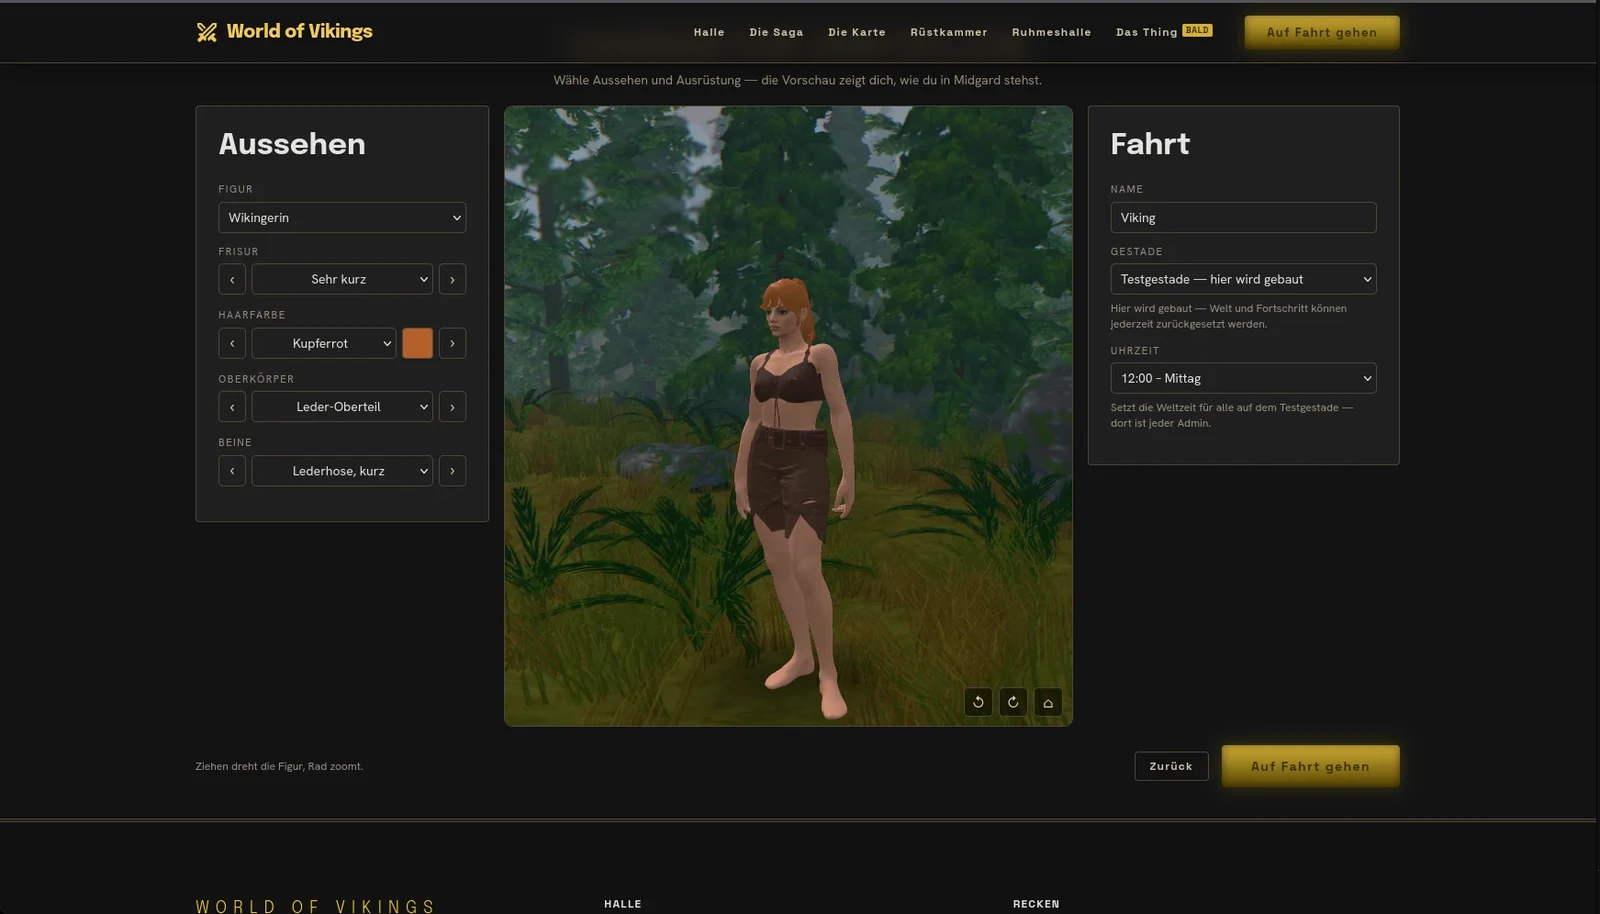
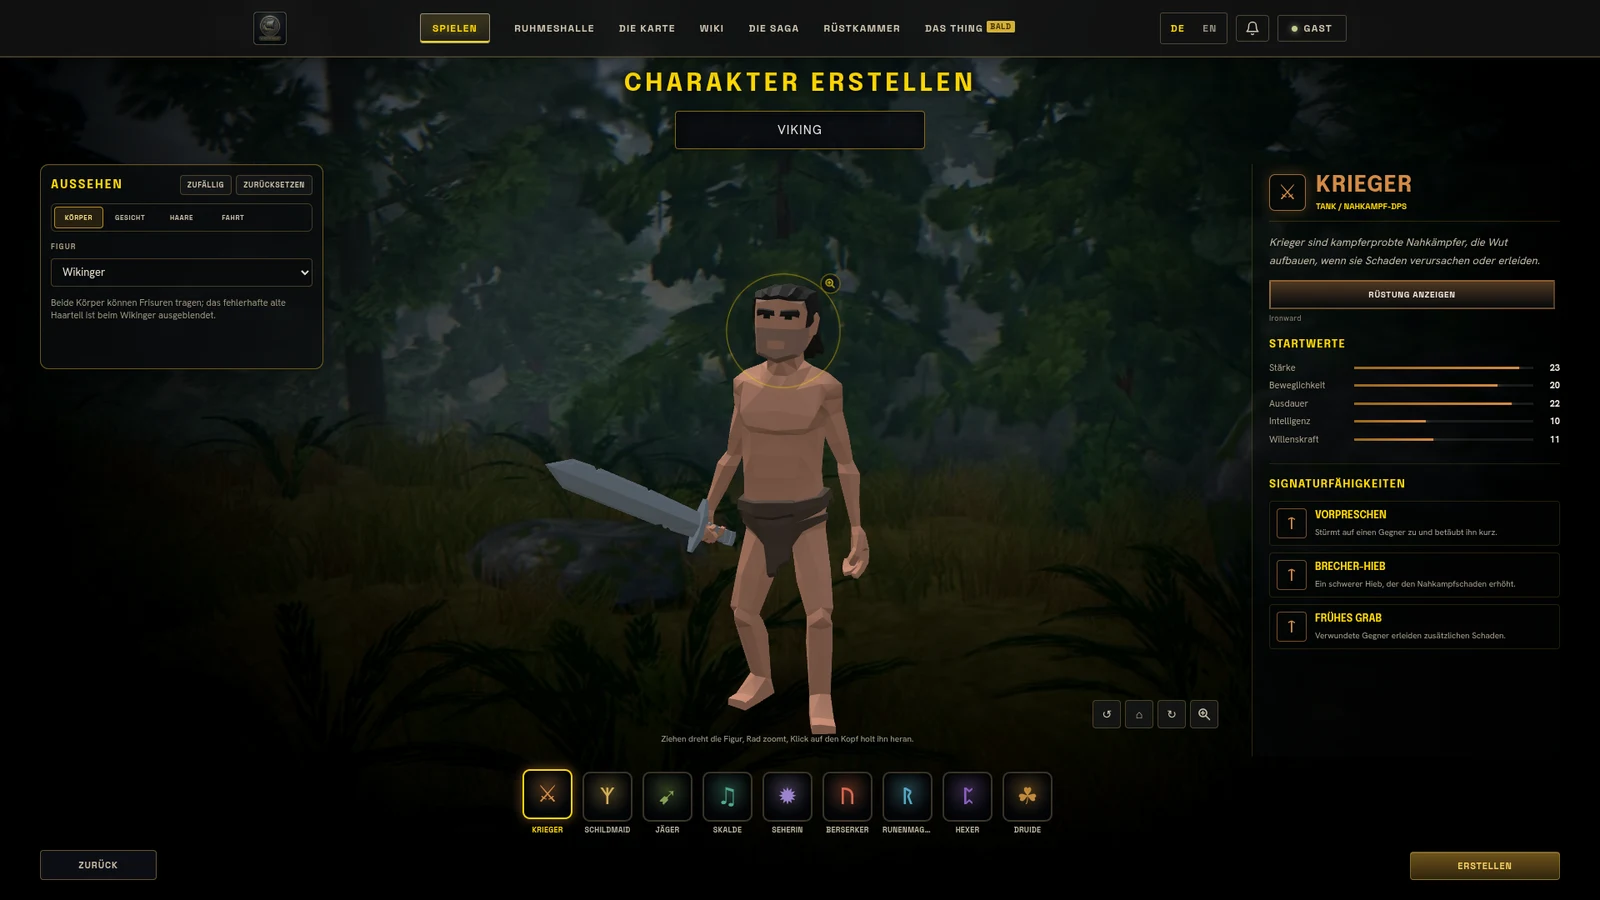
Rewrite the README in plain language and replace outdated screenshots
The README text is rewritten in natural English and German sentences:
features as a simple list, the starting island as the entry point,
clearer quick-start and admin-password notes. The outdated screenshots
are removed; for now the README shows two current images (meadow at the
forest edge, character creation on the website). More motifs follow once
good captures of the current state exist. Docs/bilder/README.md lists
the images and the capture rules.

Deutsch: Die README ist in natürlichen Sätzen auf Englisch und Deutsch
neu geschrieben: Merkmale als einfache Liste, die Startinsel als
Einstieg, klarere Hinweise zu Schnellstart und Adminpasswort. Die
veralteten Bilder sind entfernt; vorerst zeigt die README zwei aktuelle
Aufnahmen (Wiese am Waldrand, Charaktererstellung auf der Webseite).
Weitere Motive folgen, sobald es gute Aufnahmen vom aktuellen Stand
gibt. Docs/bilder/README.md nennt die Bilder und die Aufnahmeregeln.

diff --git a/README.md b/README.md
@@ -4,8 +4,8 @@
 
 # World of Vikings
 
-**Anglo-Saxons against Vikings: a multiplayer world that runs in your browser.**<br>
-**Angelsachsen gegen Wikinger: eine Mehrspielerwelt, die im Browser läuft.**
+**An online role-playing game about Anglo-Saxons and Vikings that runs in your browser.**<br>
+**Ein Online-Rollenspiel um Angelsachsen und Wikinger, das im Browser läuft.**
 
 [![CI](https://github.com/vibe-code-repo/worldofvikings/actions/workflows/ci.yml/badge.svg)](https://github.com/vibe-code-repo/worldofvikings/actions/workflows/ci.yml)
 ![TypeScript](https://img.shields.io/badge/TypeScript-strict-3178C6?logo=typescript&logoColor=white)
@@ -19,7 +19,7 @@
 [🇩🇪 Deutsch](#-deutsch) ·
 [Developer guide](docs/getting-started.md)
 
-<img src="Docs/bilder/spiel.webp" alt="A character in meadow and forest, with health and stamina bars and the hotbar" width="100%">
+<img src="Docs/bilder/wald.webp" alt="A character on a meadow at the edge of a forest" width="100%">
 
 </div>
 
@@ -27,42 +27,38 @@
 
 ## 🇬🇧 English
 
-World of Vikings is an online role-playing game that needs nothing but a browser. No
-launcher, no multi-gigabyte download: open the page, sign in, and the world streams in
-around you as you walk. Meadows, dark forest and bog, day and night, terrain you can dig
-into and dungeons that are built from a seed.
+World of Vikings is an online role-playing game that you play in your browser.
+There is nothing to install: open the page, sign in, and the world loads around
+you as you explore it. You start on a small island with a village and set out
+from there into meadows, forests and bogs. Along the way you can dig into the
+ground, change the terrain and explore dungeons.
 
-The game is in **early access**. The world is being built in the open, and this
-repository is the whole of it: game client, game server, world editor and website.
+The game is in **early access** and is developed in the open. This repository
+contains all of it: the game client, the game server, the world editor and the
+website.
 
-### What makes it different
+### Features
 
-| | |
-|---|---|
-| 🌍 **A world that is written, not rolled** | An in-game editor describes the world as regions with a biome each. Client and server compute the same terrain from it, bit for bit, and golden tests keep it that way. |
-| ⚔ **An honest server** | Movement, inventory, crafting, terraforming and loot are decided by the server. The client draws and asks; it never asserts. |
-| ⛏ **Terrain you can change** | Dig a pit, raise a mound. The ground keeps its shape and shows its cut faces. |
-| 🏰 **Dungeons from a seed** | Crypts and caves come from a generator with real doors and room chains: different every time, the same for everyone. |
-| 🎨 **Modern rendering** | Babylon.js 9 on WebGPU, with WebGL2 as the fallback. Cascaded shadows, fog, water and a full day and night cycle. |
-| 🛡 **Your own hero** | Create a character on the website with a live 3D preview, then gear up in sets of armour. |
+- **Runs in the browser.** The game is built on Babylon.js 9 and uses WebGPU,
+  with WebGL2 as a fallback for older systems. It has shadows, fog, water and a
+  day and night cycle.
+- **The server has the final say.** Movement, inventory, crafting, digging and
+  loot are all checked on the server, so a modified client cannot cheat.
+- **The same world on both sides.** The world is designed in an in-game
+  editor. Client and server generate exactly the same terrain from it, and
+  tests make sure it stays that way.
+- **Terrain you can change.** Dig pits or pile up earth. Your changes stay in
+  the world.
+- **Dungeons from a seed.** Crypts and caves are generated from a seed. Every
+  dungeon is different, but everyone who enters the same one finds the same
+  rooms.
+- **Your own character.** You create your character on the website with a live
+  3D preview and equip armour sets in the game.
 
-### Screenshots
+<img src="Docs/bilder/erstellen.webp" alt="Character creation on the website with a 3D preview" width="100%">
+<sub>Character creation on the website</sub>
 
-<table>
-  <tr>
-    <td width="50%"><img src="Docs/bilder/weltkarte.webp" alt="The live world, rendered from the world document"><br><sub><b>The world map</b>, rendered from the same data the server runs</sub></td>
-    <td width="50%"><img src="Docs/bilder/gelaende.webp" alt="A dug-out pit showing the cut faces of the terrain"><br><sub><b>Terraforming</b>: a pit dug into the hillside</sub></td>
-  </tr>
-  <tr>
-    <td width="50%"><img src="Docs/bilder/nacht.webp" alt="The same area at night"><br><sub><b>Night</b> falls over the same valley</sub></td>
-    <td width="50%"><img src="Docs/bilder/erstellen.webp" alt="Character creation on the website with a 3D preview"><br><sub><b>Character creation</b> with a live 3D preview</sub></td>
-  </tr>
-  <tr>
-    <td colspan="2"><img src="Docs/bilder/charakter.webp" alt="Character window and inventory side by side"><br><sub><b>Character and inventory</b></sub></td>
-  </tr>
-</table>
-
-### Run it yourself
+### Running it locally
 
 ```bash
 git clone https://github.com/vibe-code-repo/worldofvikings.git
@@ -71,80 +67,80 @@ npm install
 npm run dev
 ```
 
-That starts game server, client and admin service together. Then open
-**http://localhost:5274/play/** and sign in as `guest` / `guest`. No credentials, no
-Docker. Models and textures are not part of the repository; without them the world
-still loads, just without its 3D content.
+This starts the game server, the client and the admin service. Then open
+**http://localhost:5274/play/** in your browser and sign in with `guest` /
+`guest`. You don't need any credentials or Docker. Models and textures are not
+included in the repository. Without them the world still loads, but you won't
+see any 3D models.
 
 > [!WARNING]
-> A fresh clone also creates an **admin account with the password `admin`**. Before a
-> server is reachable from the internet, set `WOV_ADMINKONTO_PASSWORT` in `/etc/wov.env`
-> **before the first start**. Details: [developer guide](docs/getting-started.md#the-admin-account)
-> and [`docs/server-setup.md`](docs/server-setup.md) §5a.
+> A new installation also creates an **admin account with the password
+> `admin`**. Before your server is reachable from the internet, set your own
+> password with `WOV_ADMINKONTO_PASSWORT` in `/etc/wov.env`. Do this **before
+> the first start**, because an account that already exists keeps its password.
+> See the [developer guide](docs/getting-started.md#the-admin-account) and
+> [`docs/server-setup.md`](docs/server-setup.md) §5a.
 
-Ports, commands, the standard accounts and the architecture are in the
-**[developer guide](docs/getting-started.md)**. Running a public server with systemd and
-nginx is covered in **[`docs/server-setup.md`](docs/server-setup.md)**.
+The **[developer guide](docs/getting-started.md)** covers ports, commands, the
+standard accounts and the architecture. If you want to run a public server with
+systemd and nginx, read **[`docs/server-setup.md`](docs/server-setup.md)**.
 
-### Under the hood
+### Repository layout
 
 ```
-client/    Babylon.js client, world editor, UI           ─┐
-server/    authoritative game server (TypeScript)         ├─ one npm workspace
-shared/    world generation, items, protocol              │
-admin/     ops service: world document, console, restarts ─┘
-wov-web/   the website (SvelteKit): accounts, map, forum, character creation
+client/    Babylon.js client, world editor, user interface
+server/    game server (TypeScript), decides everything that matters
+shared/    world generation, items and network protocol, used by both
+admin/     admin service: world document, console, restarts
+wov-web/   website (SvelteKit): accounts, map, forum, character creation
 tools/     asset pipeline, measurement scripts, world map renderer
 Docs/      concepts and design decisions
 ```
 
 ### Contributing
 
-The project is built by people and AI agents working side by side, each task in its own
-git worktree and pull request. The rules for that are in [`AGENTS.md`](AGENTS.md): one
-branch per task, paths declared in the PR, and `typecheck`, `lint`, `test` and `build`
-green before review. Pull requests are written in English and German.
+People and AI agents work on the project together. Each task gets its own
+branch, its own git worktree and its own pull request. The rules are in
+[`AGENTS.md`](AGENTS.md). Before a pull request is reviewed, `typecheck`,
+`lint`, `test` and `build` must pass. Pull requests are written in English and
+German.
 
 ---
 
 ## 🇩🇪 Deutsch
 
-World of Vikings ist ein Online-Rollenspiel, das nichts braucht außer einem Browser. Kein
-Launcher, kein Download von mehreren Gigabyte: Seite öffnen, anmelden, und die Welt lädt
-sich nach, während du läufst. Wiesen, Schwarzwald und Moor, Tag und Nacht, Gelände, in das
-du graben kannst, und Dungeons, die aus einem Seed entstehen.
+World of Vikings ist ein Online-Rollenspiel, das du direkt im Browser spielst.
+Installieren musst du nichts: Seite öffnen, anmelden, und die Welt lädt nach,
+während du sie erkundest. Du beginnst auf einer kleinen Insel mit einem Dorf und
+ziehst von dort hinaus in Wiesen, Wälder und Moore. Unterwegs kannst du graben,
+das Gelände verändern und Dungeons erkunden.
 
-Das Spiel ist im **Early Access**. Die Welt entsteht öffentlich, und dieses Repository
-enthält alles davon: Spiel-Client, Spielserver, Welteditor und Webseite.
+Das Spiel ist im **Early Access** und wird öffentlich entwickelt. In diesem
+Repository steckt alles: der Spiel-Client, der Spielserver, der Welteditor und
+die Webseite.
 
-### Was es besonders macht
+### Was das Spiel kann
 
-| | |
-|---|---|
-| 🌍 **Eine Welt, die geschrieben wird, nicht gewürfelt** | Ein Editor im Spiel beschreibt die Welt als Regionen mit je einem Biom. Client und Server berechnen daraus dasselbe Gelände, Bit für Bit, und Golden-Tests halten das fest. |
-| ⚔ **Ein ehrlicher Server** | Bewegung, Inventar, Handwerk, Terraforming und Beute entscheidet der Server. Der Client zeichnet und fragt; er behauptet nie. |
-| ⛏ **Gelände, das sich formen lässt** | Grube ausheben, Hügel aufschütten. Der Boden behält seine Form und zeigt seine Schnittflächen. |
-| 🏰 **Dungeons aus einem Seed** | Grüfte und Höhlen kommen aus einem Generator mit echten Türen und Raumketten: jedes Mal anders, für alle gleich. |
-| 🎨 **Moderne Grafik** | Babylon.js 9 auf WebGPU, mit WebGL2 als Rückfall. Kaskadenschatten, Nebel, Wasser und ein voller Tag-Nacht-Wechsel. |
-| 🛡 **Dein eigener Recke** | Figur auf der Webseite mit 3D-Vorschau erstellen, dann in Rüstungssets einkleiden. |
+- **Läuft im Browser.** Das Spiel baut auf Babylon.js 9 auf und nutzt WebGPU;
+  ältere Systeme bekommen WebGL2. Es gibt Schatten, Nebel, Wasser und einen
+  Wechsel von Tag und Nacht.
+- **Der Server hat das letzte Wort.** Bewegung, Inventar, Handwerk, Graben und
+  Beute prüft der Server. Ein veränderter Client kann deshalb nicht schummeln.
+- **Auf beiden Seiten dieselbe Welt.** Die Welt entsteht in einem Editor im
+  Spiel. Client und Server berechnen daraus genau dasselbe Gelände, und Tests
+  sorgen dafür, dass das so bleibt.
+- **Gelände zum Umgraben.** Du kannst Gruben ausheben oder Erde aufschütten.
+  Deine Änderungen bleiben in der Welt erhalten.
+- **Dungeons aus einem Startwert.** Grüfte und Höhlen werden aus einem Seed
+  erzeugt. Jeder Dungeon ist anders, aber wer denselben betritt, findet dieselben
+  Räume vor.
+- **Deine eigene Figur.** Deine Figur erstellst du auf der Webseite mit einer
+  3D-Vorschau, Rüstungssets legst du im Spiel an.
 
-### Bilder
+<img src="Docs/bilder/erstellen.webp" alt="Charaktererstellung auf der Webseite mit 3D-Vorschau" width="100%">
+<sub>Charaktererstellung auf der Webseite</sub>
 
-<table>
-  <tr>
-    <td width="50%"><img src="Docs/bilder/weltkarte.webp" alt="Die Live-Welt, aus dem Weltdokument gerendert"><br><sub><b>Die Weltkarte</b>, gerendert aus denselben Daten, mit denen der Server rechnet</sub></td>
-    <td width="50%"><img src="Docs/bilder/gelaende.webp" alt="Eine ausgehobene Grube mit den Schnittflächen des Geländes"><br><sub><b>Terraforming</b>: eine Grube im Hang</sub></td>
-  </tr>
-  <tr>
-    <td width="50%"><img src="Docs/bilder/nacht.webp" alt="Dieselbe Gegend bei Nacht"><br><sub><b>Nacht</b> über demselben Tal</sub></td>
-    <td width="50%"><img src="Docs/bilder/erstellen.webp" alt="Charaktererstellung auf der Webseite mit 3D-Vorschau"><br><sub><b>Charaktererstellung</b> mit 3D-Vorschau</sub></td>
-  </tr>
-  <tr>
-    <td colspan="2"><img src="Docs/bilder/charakter.webp" alt="Charakterfenster und Inventar nebeneinander"><br><sub><b>Charakter und Inventar</b></sub></td>
-  </tr>
-</table>
-
-### Selbst starten
+### Lokal starten
 
 ```bash
 git clone https://github.com/vibe-code-repo/worldofvikings.git
@@ -153,42 +149,47 @@ npm install
 npm run dev
 ```
 
-Das startet Spielserver, Client und Betriebsdienst zusammen. Danach
-**http://localhost:5274/play/** öffnen und mit `gast` / `gast` anmelden. Keine
-Zugangsdaten, kein Docker. Modelle und Texturen liegen nicht im Repository; ohne sie lädt
-die Welt trotzdem, nur ohne 3D-Inhalte.
+Damit starten Spielserver, Client und Betriebsdienst. Öffne danach
+**http://localhost:5274/play/** im Browser und melde dich mit `gast` / `gast`
+an. Zugangsdaten oder Docker brauchst du nicht. Modelle und Texturen sind nicht
+im Repository enthalten. Ohne sie lädt die Welt trotzdem, du siehst dann aber
+keine 3D-Modelle.
 
 > [!WARNING]
-> Ein frischer Klon legt auch ein **Adminkonto mit dem Passwort `admin`** an. Bevor ein
-> Server aus dem Internet erreichbar ist, `WOV_ADMINKONTO_PASSWORT` in `/etc/wov.env`
-> setzen, und zwar **vor dem ersten Start**. Einzelheiten: [Entwicklerhandbuch](docs/getting-started.md#the-admin-account)
-> und [`docs/server-setup.md`](docs/server-setup.md) §5a.
+> Eine neue Installation legt auch ein **Adminkonto mit dem Passwort `admin`**
+> an. Bevor dein Server aus dem Internet erreichbar ist, setze mit
+> `WOV_ADMINKONTO_PASSWORT` in `/etc/wov.env` ein eigenes Passwort. Das muss
+> **vor dem ersten Start** passieren, denn ein bereits angelegtes Konto behält
+> sein Passwort. Mehr dazu im [Entwicklerhandbuch](docs/getting-started.md#the-admin-account)
+> und in [`docs/server-setup.md`](docs/server-setup.md) §5a.
 
-Ports, Befehle, die Standardkonten und die Architektur stehen im
-**[Entwicklerhandbuch](docs/getting-started.md)** (Englisch). Wie man einen öffentlichen
-Server mit systemd und nginx betreibt, steht in **[`docs/server-setup.md`](docs/server-setup.md)**.
+Ports, Befehle, die Standardkonten und die Architektur beschreibt das
+**[Entwicklerhandbuch](docs/getting-started.md)** (auf Englisch). Wie du einen
+öffentlichen Server mit systemd und nginx betreibst, steht in
+**[`docs/server-setup.md`](docs/server-setup.md)**.
 
-### Unter der Haube
+### Aufbau des Repositorys
 
 ```
-client/    Babylon.js-Client, Welteditor, Oberfläche      ─┐
-server/    autoritativer Spielserver (TypeScript)          ├─ ein npm-Workspace
-shared/    Weltgenerierung, Gegenstände, Protokoll         │
-admin/     Betriebsdienst: Weltdokument, Konsole, Neustart ─┘
-wov-web/   die Webseite (SvelteKit): Konten, Karte, Forum, Charaktererstellung
+client/    Babylon.js-Client, Welteditor, Benutzeroberfläche
+server/    Spielserver (TypeScript), entscheidet alles Wichtige
+shared/    Weltgenerierung, Gegenstände und Netzwerkprotokoll für beide Seiten
+admin/     Betriebsdienst: Weltdokument, Konsole, Neustarts
+wov-web/   Webseite (SvelteKit): Konten, Karte, Forum, Charaktererstellung
 tools/     Asset-Pipeline, Messskripte, Weltkarten-Renderer
 Docs/      Konzepte und Designentscheidungen
 ```
 
 ### Mitmachen
 
-Am Projekt arbeiten Menschen und KI-Agenten Seite an Seite, jede Aufgabe in einem eigenen
-Git-Worktree und Pull Request. Die Regeln dafür stehen in [`AGENTS.md`](AGENTS.md): ein
-Branch je Aufgabe, die berührten Pfade im PR benannt, und `typecheck`, `lint`, `test` und
-`build` grün vor dem Review. Pull Requests werden auf Englisch und Deutsch geschrieben.
+Am Projekt arbeiten Menschen und KI-Agenten gemeinsam. Jede Aufgabe bekommt
+einen eigenen Branch, einen eigenen Git-Worktree und einen eigenen Pull Request.
+Die Regeln stehen in [`AGENTS.md`](AGENTS.md). Bevor ein Pull Request geprüft
+wird, müssen `typecheck`, `lint`, `test` und `build` durchlaufen. Pull Requests
+schreiben wir auf Englisch und Deutsch.
 
 ---
 
 <div align="center">
-<sub>Forged in Midgard · Geschmiedet in Midgard · <a href="https://world-of-vikings.com">world-of-vikings.com</a></sub>
+<sub><a href="https://world-of-vikings.com">world-of-vikings.com</a></sub>
 </div>

diff --git a/Docs/bilder/README.md b/Docs/bilder/README.md
@@ -1,49 +1,38 @@
 # Bilder fürs README
 
-Hier liegen die Bilder, die das README einbindet — sonst nichts. Wer eines
-austauscht, behält den Dateinamen; dann muss im README nichts nachgezogen
+Hier liegen die Bilder, die das README einbindet, und sonst nichts. Wer ein
+Bild austauscht, behält den Dateinamen; dann muss im README nichts nachgezogen
 werden.
 
 | Datei | Was drauf ist |
 |---|---|
-| `spiel.webp` | Die Figur in Wiese und Wald, Lebens- und Ausdauerleiste, Schnellleiste |
-| `weltkarte.webp` | Die Live-Welt, aus dem Weltdokument gerendert |
-| `gelaende.webp` | Terraforming: eine ausgehobene Grube mit den Schnittflächen des Geländes |
-| `nacht.webp` | Dieselbe Gegend bei Nacht |
+| `wald.webp` | Die Figur auf einer Wiese am Waldrand, ohne Oberfläche |
 | `erstellen.webp` | Charaktererstellung auf der Webseite mit der 3D-Vorschau |
-| `charakter.webp` | Charakterfenster und Inventar nebeneinander |
+
+Weitere Motive (Startdorf, Nacht, gegrabene Grube, Charakter und Inventar,
+Weltkarte) kommen dazu, sobald es gute Aufnahmen vom aktuellen Stand gibt.
 
 ## Aufnehmen
 
-**F3** blendet den Debug-Kasten aus, **F1** die gesamte Oberfläche. Beides vor
-dem Auslösen — ein Bild lässt sich beschneiden, aber nicht entrümpeln.
-`spiel.webp` und `charakter.webp` sind rechts beschnitten, weil der Debug-Kasten
-und die Minikarte in der Ecke standen; das ist ein Schnitt, keine Retusche, aber
-mit F3 wäre es keiner gewesen.
+**F1** blendet die gesamte Oberfläche aus. Soll die Oberfläche sichtbar
+bleiben, darf trotzdem kein Diagnosetext (Bildrate, Koordinaten) und kein
+Hinweis wie „Ins Bild klicken …“ im Bild stehen. Ein Bild lässt sich
+beschneiden, aber nicht entrümpeln.
+
+Aufnahmen per Playwright brauchen einen Rechner mit GPU. Die Maus lässt sich
+dort nicht fangen; Blickrichtung und Kamera werden deshalb über die
+Diagnosehaken des Clients gesetzt, nicht per Mausbewegung.
 
 ## Format
 
-WebP, rund 1600 px breit, Qualität 88. Das landet bei 40–190 KB pro Bild. Aus
+WebP, rund 1600 px breit, Qualität 88. Das landet bei 40–250 KB pro Bild. Aus
 einem PNG:
 
 ```bash
-magick bild.png -resize 1600x -quality 88 spiel.webp
+magick bild.png -resize 1600x -quality 88 wald.webp
 ```
 
-Grösser lohnt nicht: GitHub skaliert die Anzeige ohnehin herunter, und jedes
+Größer lohnt nicht: GitHub skaliert die Anzeige ohnehin herunter, und jedes
 Byte hier liegt für immer in der Historie, die jeder Klon mitzieht. Deshalb
-gehören auch nur wenige, ausgesuchte Bilder hierher — die Modelle und Texturen
-bleiben aus demselben Grund ganz draussen (siehe README).
-
-## Die Weltkarte neu erzeugen
-
-`weltkarte.webp` ist ein Ausschnitt aus `wov-web/static/assets/karten/live.webp`
-(4096×4096, kommt aus dem Weltkarten-Renderer in `tools/`). Der Ausschnitt lässt
-den leeren Ozean an den Rändern weg:
-
-```bash
-magick wov-web/static/assets/karten/live.webp -crop 3800x2700+150+950 +repage -resize 1600x -quality 88 Docs/bilder/weltkarte.webp
-```
-
-Ändert sich der Weltschnitt, stimmt der Ausschnitt nicht mehr — dann die Zahlen
-neu bestimmen, statt das alte Bild stehen zu lassen.
+gehören nur wenige, ausgesuchte Bilder hierher. Die Modelle und Texturen
+bleiben aus demselben Grund ganz draußen (siehe README).
